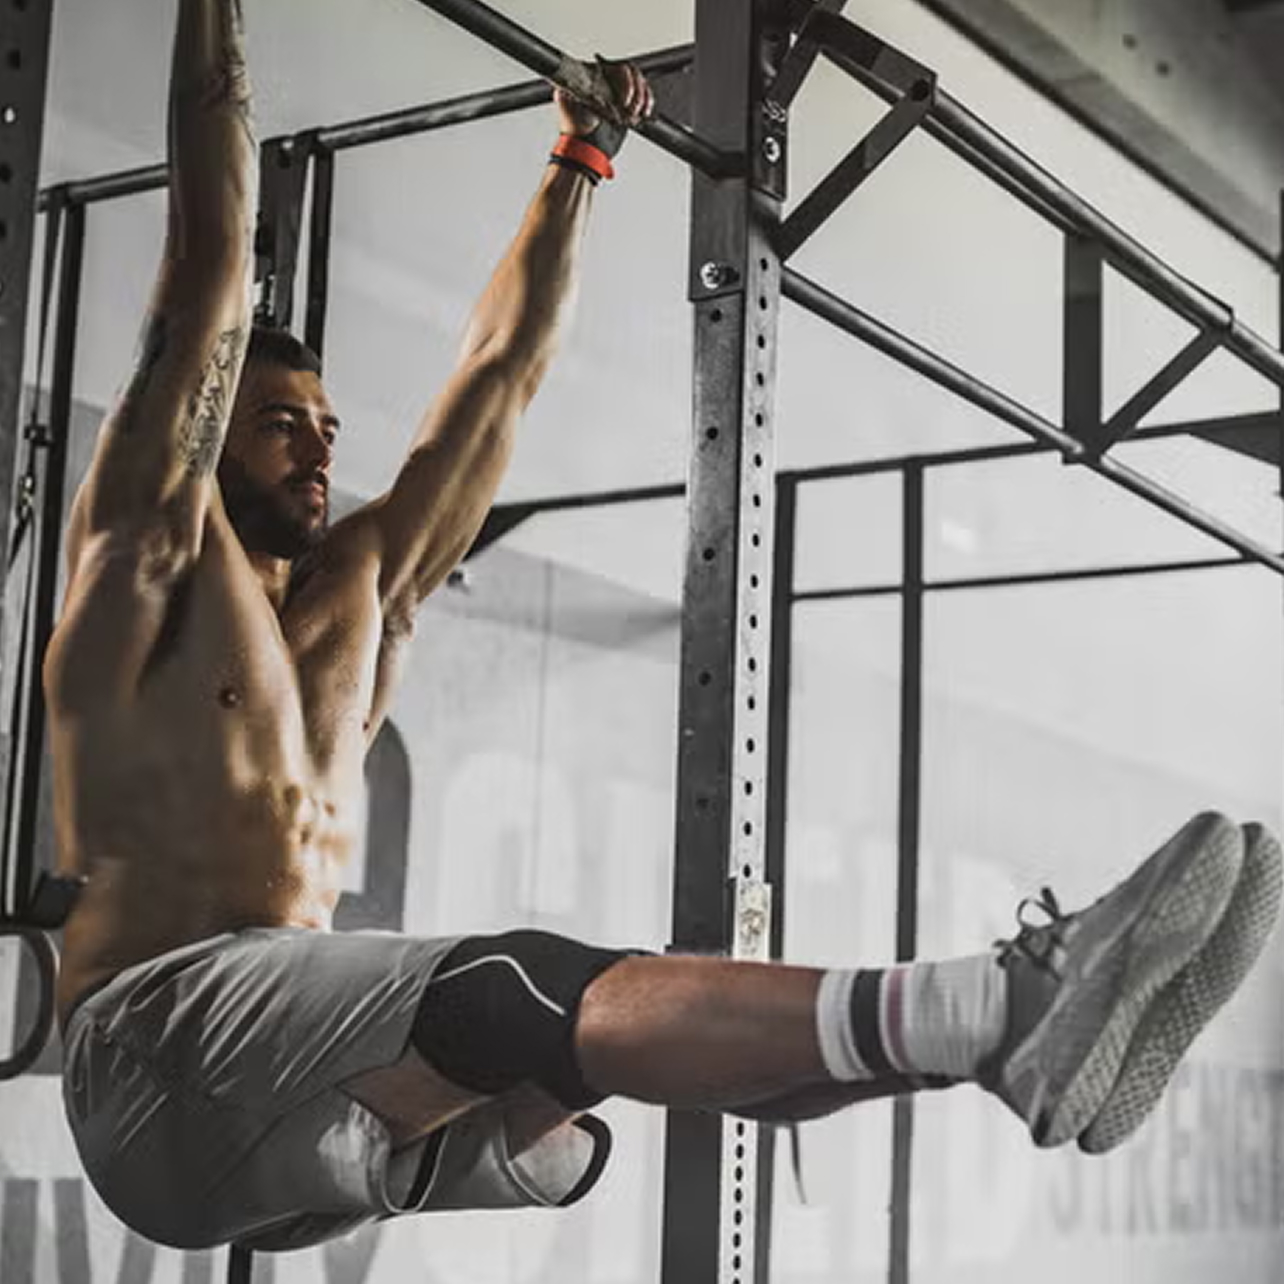
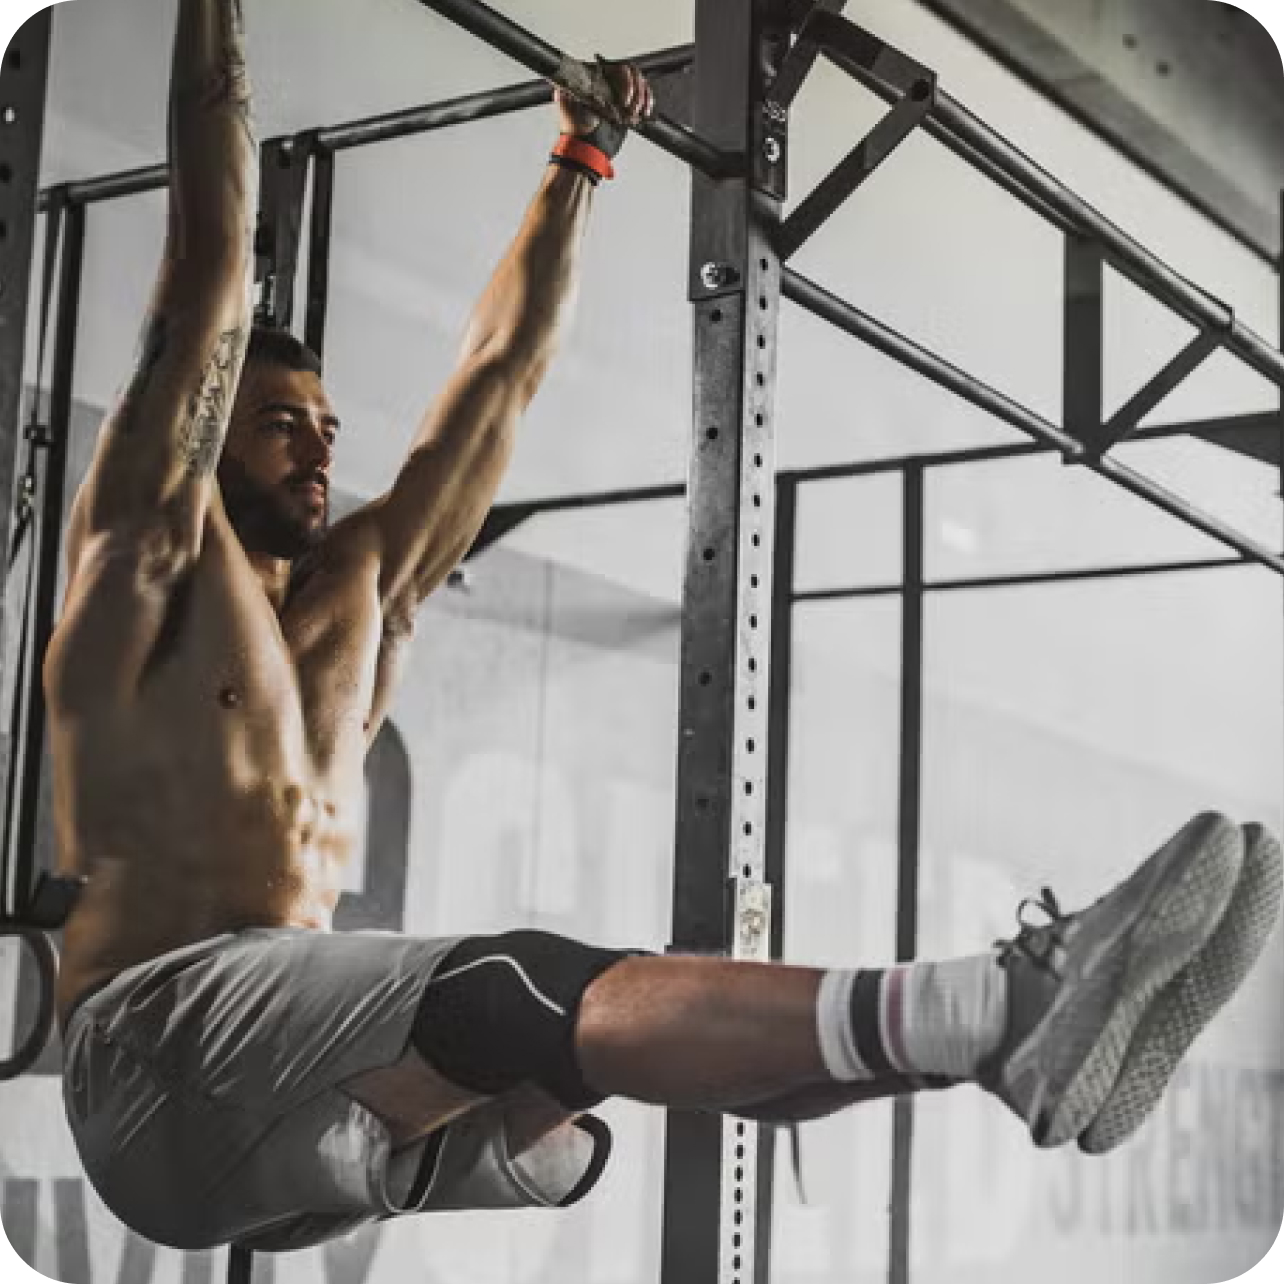
bilder ersetzen

diff --git a/src/pages/Plan/Plan.module.scss b/src/pages/Plan/Plan.module.scss
@@ -109,6 +109,7 @@
         &__img {
             max-width: 100%; 
             height: auto;
+            border-radius: toRem(20);
         }
     }
     &__second_part {
@@ -124,6 +125,7 @@
     &__second__img {
         max-width: 33%; 
         height: auto;
+        border-radius: toRem(20);
     }
     &__btn {
             display: flex;

diff --git a/src/app/(auth)/training/TrainingStyles.module.scss b/src/app/(auth)/training/TrainingStyles.module.scss
@@ -126,6 +126,9 @@
             text-align: left;
             border-bottom: toRem(1) solid $greyWhiteColor;
         }
+        img {
+            border-radius: toRem(20);
+        }
         @media (max-width: $tablet) {
             font-size: toRem(16);
             img {
